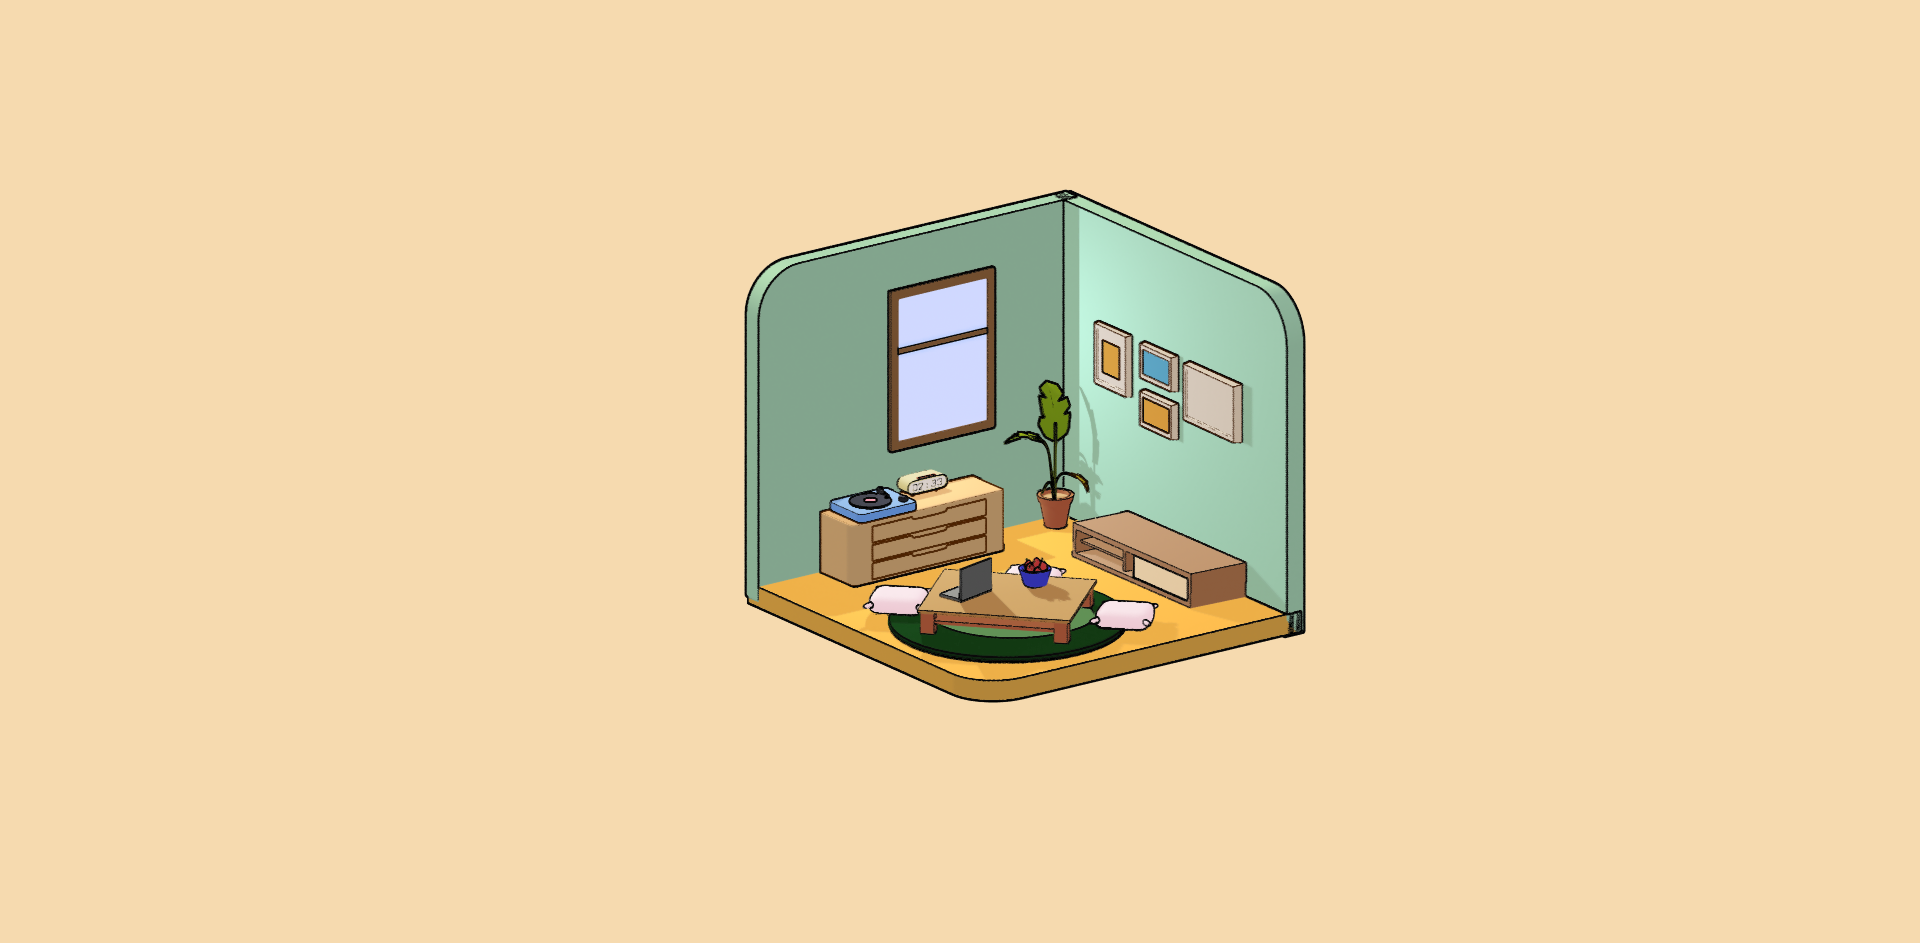
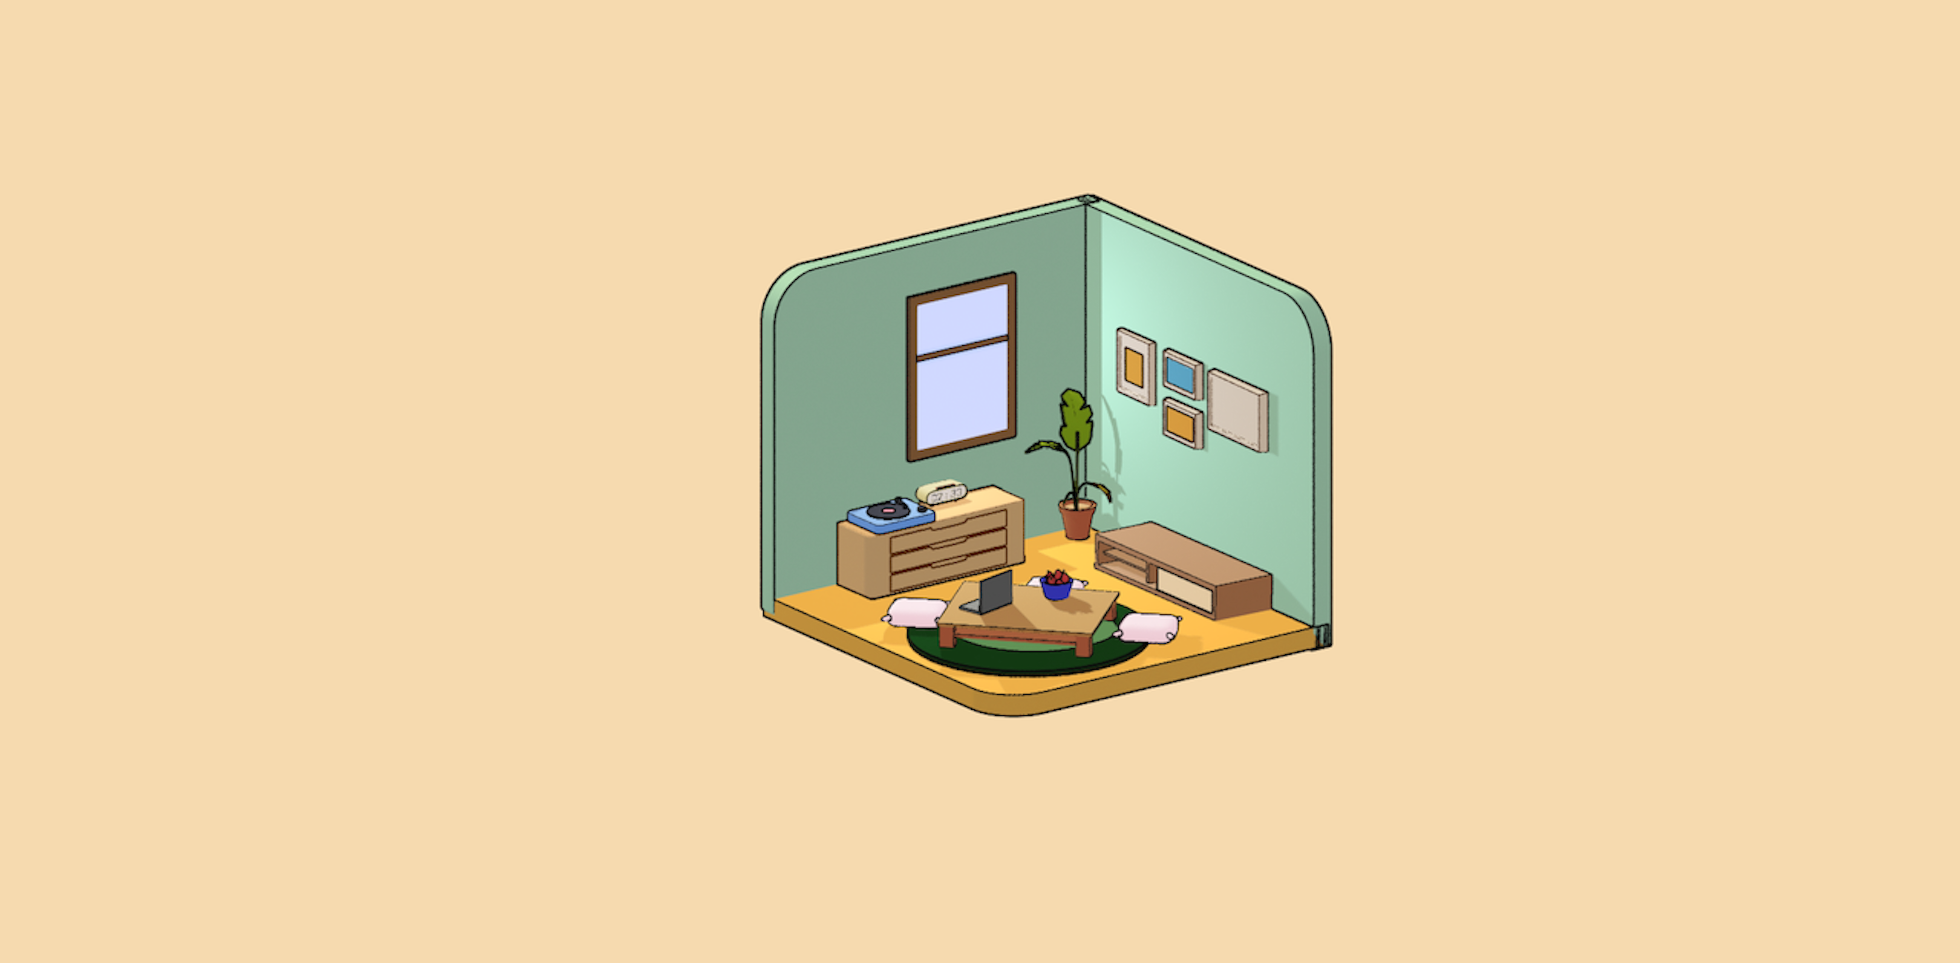
first time introduction what to do is next

diff --git a/src/views/Dashboard/Dashboard.css b/src/views/Dashboard/Dashboard.css
@@ -3,19 +3,22 @@
   flex-direction: column;
   height: 100%;
   overflow: hidden;
+  background-image: url('../../assets/Welcome-bg.png');
+  background-repeat: no-repeat;
+  background-size: cover;
+  background-position: center;
 }
 
 .home-container-bg {
   display: flex;
+  flex-direction: column;
   justify-content: flex-start;
+  align-content: center;
   align-items: center;
   flex-wrap: wrap;
-  height: 100%;
   width: 100%;
-  overflow: hidden;
-  align-content: space-between;
+  height: 80%;
   margin-top: 1rem;
-  position: relative;
 }
 
 .home-bg-img {
@@ -27,31 +30,31 @@
 #dashboard-title-container {
   display: flex;
   justify-content: center;
-  color: rgba(var(--licorice), 1);
-  background-color: aliceblue;
-  font-family: 'Tamagotchi-Normal', monospace, sans-serif;
+  color: rgba(var(--white), 1);
+  font-family: 'Bubbly', monospace, sans-serif;
+  -webkit-text-stroke: 2px rgba(var(--peach));
   width: 100vw;
   height: 15vh;
-  margin-left: 1rem;
+  font-size: 2rem;
+  margin-top: 3rem;
 }
 
-/* home */
-#button-a {
-  position: absolute;
-  top: 20%;
-  left: 15%;
+.tomomi-house-container {
+  display: flex;
+  flex-direction: column;
+  justify-content: flex-start;
+  align-content: center;
+  align-items: center;
+  width: 100%;
+  height: 80%;
+  border: solid 1px black;
+  margin-top: 3rem;
 }
-
-/* feed */
-#button-b {
-  position: absolute;
-  bottom: 27%;
-  right: 30%;
-}
-
-/* chat */
-#button-c {
-  position: absolute;
-  top: 35%;
-  left: 33%;
-}
+/* 
+.tomomi-house {
+  width: 100%;
+  /* height: 100%; */
+/* display: flex;
+  justify-content: center;
+  align-items: center; */
+/* } */

diff --git a/src/views/Dashboard/Dashboard.jsx b/src/views/Dashboard/Dashboard.jsx
@@ -9,22 +9,22 @@ export default function Dashboard() {
 
   return (
     <div className="home-container">
-      {/* <div id="dashboard-title-container">
-        <h1>What shall we do today?</h1>
-      </div> */}
+      <div id="dashboard-title-container">
+        <h1>Dashboard</h1>
+      </div>
       <div className="home-container-bg">
-        <Spline scene="https://prod.spline.design/FIfTPXvz7GZEqg8E/scene.splinecode" />
-
-        {/* <div className="buttons" id="dashbutton-input">
-          <button className="dashbutton" id="button-a" onClick={handleHome}>
-            Home
-          </button>
-          <button className="dashbutton" id="button-b" onClick={handleFood}>
-            Feed
-          </button>
-          <div className="dashbutton" id="button-c">
-            Chat
-          </div>
+        <div className="tomomi-house-container">
+          <Spline
+            className="tomomi-house"
+            scene="https://prod.spline.design/BUslBJhv5ZSWmILk/scene.splinecode"
+          />
+        </div>
+        {/* <Spline scene="https://prod.spline.design/FIfTPXvz7GZEqg8E/scene.splinecode" /> */}
+        {/* <div className="tomomi-house">
+          <img
+            src={require('../../assets/tomoiru-temp-bg.png')}
+            alt="tomomi house background"
+          />
         </div> */}
       </div>
     </div>
